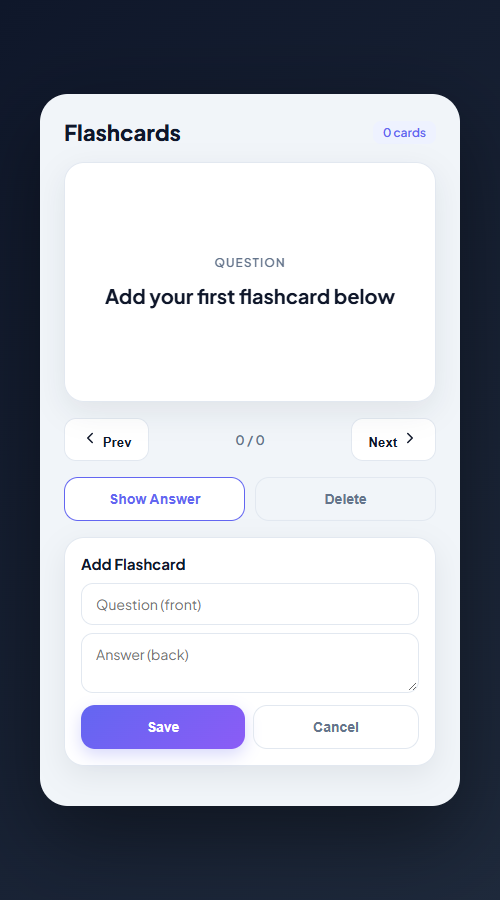
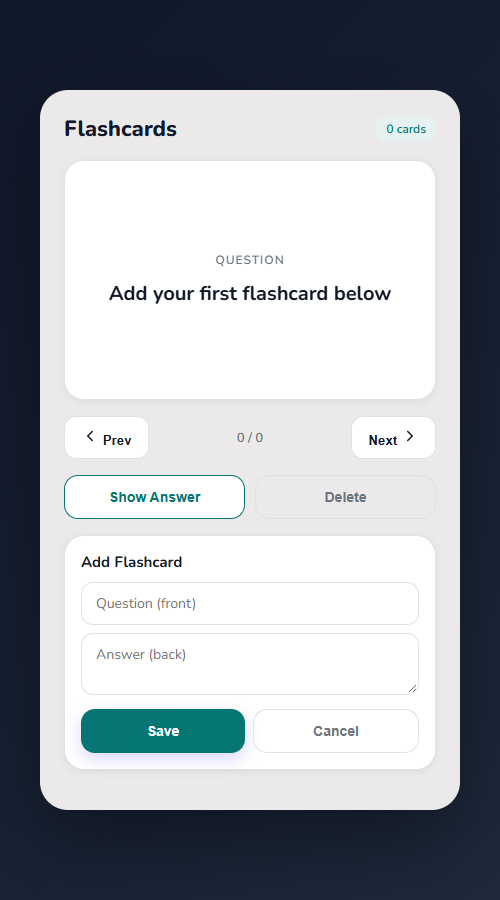
Apply teal palette to Flashcard Quiz App

diff --git a/index.html b/index.html
@@ -1,4 +1,4 @@
-<!DOCTYPE html>
+<!DOCTYPE html>
 <html lang="en">
 <head>
 <link href="https://fonts.googleapis.com/css2?family=Nunito:wght@400;500;600;700;800&display=swap" rel="stylesheet">
@@ -8,7 +8,7 @@
 <link href="https://fonts.googleapis.com/css2?family=Plus+Jakarta+Sans:wght@400;500;600;700;800&display=swap" rel="stylesheet">
 <script src="https://unpkg.com/lucide@latest/dist/umd/lucide.min.js"></script>
 <style>
-:root{--brand:#6366F1;--brand-2:#8B5CF6;--brand-soft:#EEF2FF;--bg:#F1F5F9;--card:#fff;--text:#0F172A;--muted:#64748B;--border:#E2E8F0;--success:#10B981;--danger:#EF4444;--radius:20px;--shadow:0 10px 30px rgba(15,23,42,.08);}
+:root{--brand:#057573;--brand-2:#037674;--brand-soft:#e6f1f1;--brand-glow:rgba(5,117,115,.2);--bg:#ebe9e9;--card:#fff;--text:#111827;--muted:#6c757d;--border:#dee2e6;--success:#057573;--danger:#dc3545;--radius:20px;--shadow:0 2px 8px rgba(0,0,0,.06);}
 *{box-sizing:border-box;margin:0;padding:0;}
 body{font-family: 'Nunito',sans-serif;background:linear-gradient(135deg,#0F172A 0%,#1E293B 100%);min-height:100vh;display:flex;align-items:center;justify-content:center;padding:24px;}
 .app{width:420px;max-width:100%;background:var(--bg);border-radius:28px;overflow:hidden;box-shadow:0 30px 80px rgba(0,0,0,.4);padding:24px;}
@@ -146,3 +146,4 @@ render();
 </script>
 </body>
 </html>
+
